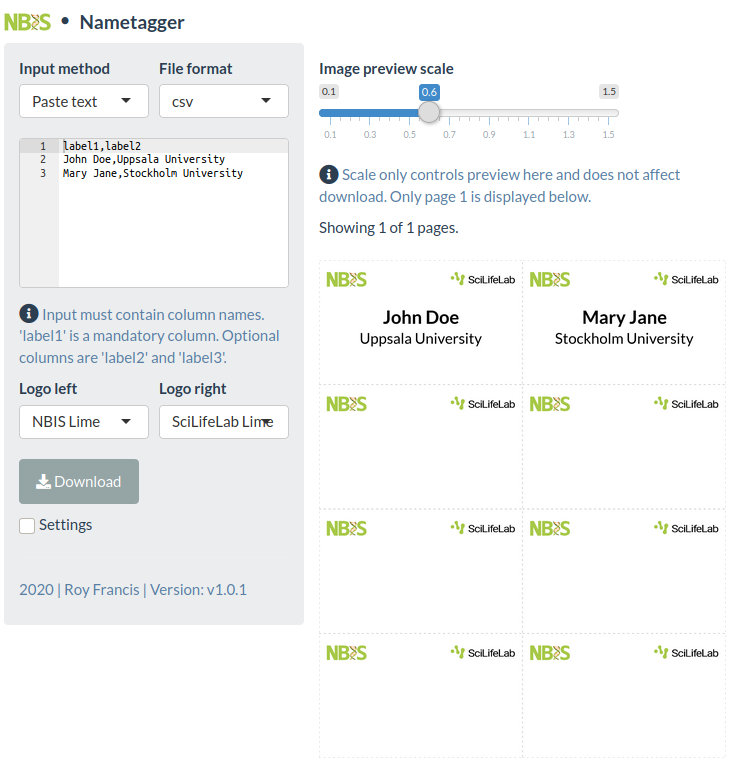
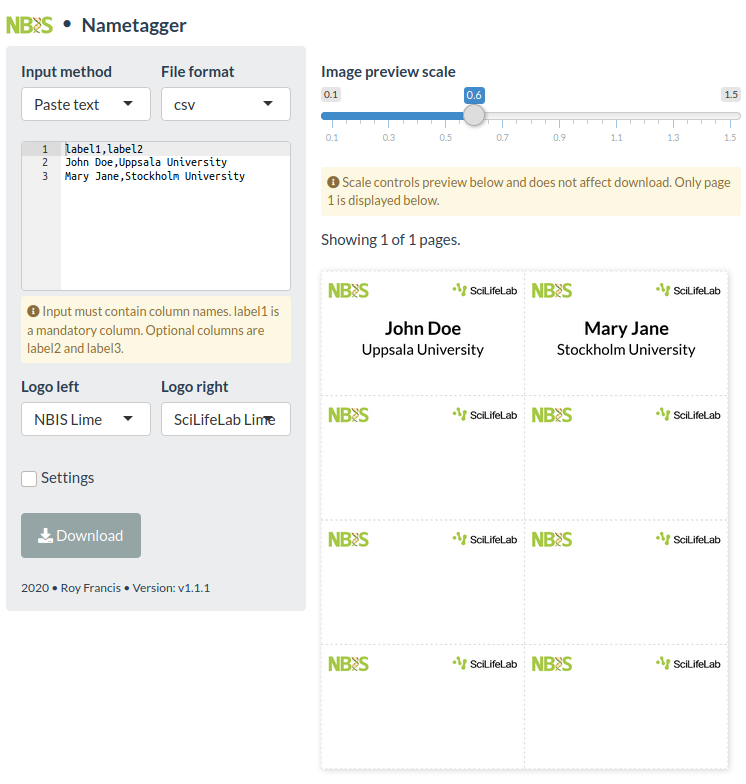
Formatting and style changes

diff --git a/www/styles.css b/www/styles.css
@@ -1,0 +1,30 @@
+/* custom css styles */
+
+#in_data {
+  margin-bottom:0;
+}
+
+.progress > #in_data_progress {
+  margin-bottom:0;
+}
+
+.checkbox {
+  margin-bottom:0;
+}
+
+.help-note {
+  font-size:0.85em;
+  color:#8a6d3b;
+  background-color:#fcf8e3;
+  border-color:#faebcc;
+  padding:6px;
+  margin-bottom:3px;
+  border-radius:3px;
+}
+
+.img-output {
+  -webkit-box-shadow: 1px 1px 6px lightgrey;
+  -moz-box-shadow: 1px 1px 6px lightgrey;
+  box-shadow: 1px 1px 6px lightgrey;
+  display:inline-block;
+}

diff --git a/README.md b/README.md
@@ -15,7 +15,7 @@ Click [here](https://roymf.shinyapps.io/nametagger/) to access an online instanc
 ### Run using docker
 
 ```
-docker run --rm -p 8787:8787 royfrancis/shiny-nametagger:v1.1.0
+docker run --rm -p 8787:8787 royfrancis/shiny-nametagger:v1.1.1
 ```
 
 The app should be available through a web browser at `http://0.0.0.0:8787`.
@@ -30,4 +30,4 @@ install.packages(c("Cairo","curl","ggplot2","ggtext","png","shiny","shinythemes"
 
 This repo is not an R package. In the root directory of this repo, run app using `shiny::runApp("app.R")`.
 
-2020 | Roy Francis
+2020 • Roy Francis
